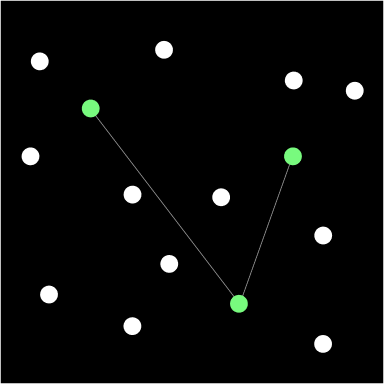
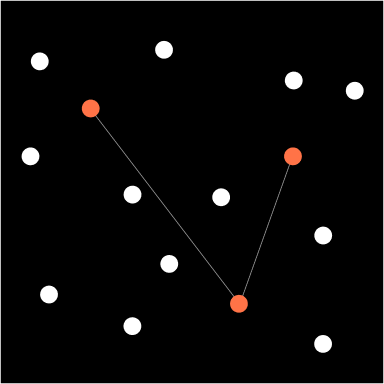
feat: new colors

Changed region(s): [[0.7188, 0.375, 0.7812, 0.4375], [0.5938, 0.75, 0.6562, 0.8125], [0.2188, 0.25, 0.2812, 0.3125]]

diff --git a/web/src/app/page.tsx b/web/src/app/page.tsx
@@ -1,7 +1,3 @@
-import SmallTitle from '@/components/base/SmallTitle';
-import ChainTitle from '@/components/base/ChainTitle';
-import GamePitchCard from '@/components/landing/GamePitchCard';
-import StepCard from '@/components/landing/StepCard';
 import door from "@/images/door.png";
 import Image from 'next/image';
 import Link from 'next/link';
@@ -13,7 +9,7 @@ export default function Home() {
 
   return (
     <main className='items-center py-12 md:py-24 font-outfit'>
-      <section className='pt-12 min-w-full '>
+      <section className='min-w-full pt-12 '>
         <Image
           className='mx-auto'
           src={door}
@@ -21,10 +17,10 @@ export default function Home() {
           width={300}
           height={300}
         />
-        <div className='mx-auto text-center  text-3xl text-white'>
+        <div className='mx-auto text-3xl text-center text-white'>
           Build community by gaming <br /> and hanging out
         </div>
-        <div className='mx-auto text-center text-xl text-lightgrey pt-4'>
+        <div className='pt-4 mx-auto text-xl text-center text-lightgrey'>
           Made for web3 communities <br />
           looking to launch gaming infrastructure
         </div>
@@ -32,14 +28,14 @@ export default function Home() {
           <Link
             href='/demo'>
             <button
-              className='bg-tavernGreen text-black rounded-lg px-4 py-2 mt-8 mx-auto'
+              className='px-4 py-2 mx-auto mt-8 text-black bg-white rounded-lg'
             >
               Try Demo
             </button>
           </Link>
         </div>
       </section>
-      <section className='grid grid-cols-1 md:grid-cols-2 pt-24 md:pt-48 md:gap-y-48 gap-24 text-center md:text-left md:px-12'>
+      <section className='grid grid-cols-1 gap-24 pt-24 text-center md:grid-cols-2 md:pt-48 md:gap-y-48 md:text-left md:px-12'>
         <div className='mx-auto' >
           <Image
             src={PVE}
@@ -52,7 +48,7 @@ export default function Home() {
           <div className='text-3xl '>
             Super easy to get started. <br /> Seriously, no code.
           </div>
-          <div className='text-lightgrey text-xl'>
+          <div className='text-xl text-lightgrey'>
             All it takes is submitting transactions. <br />  Choose your gameplay, customize it, and launch it.
           </div>
         </div>
@@ -60,7 +56,7 @@ export default function Home() {
           <div className='text-3xl '>
             We believe in the power of play. <br />
           </div>
-          <div className='text-lightgrey text-xl'>
+          <div className='text-xl text-lightgrey'>
             Communities are stronger when they play together.
           </div>
         </div>
@@ -72,7 +68,7 @@ export default function Home() {
             height={300}
           />
         </div>
-        <div className='text-center mx-auto' >
+        <div className='mx-auto text-center' >
           <Image
             src={PLAY}
             alt="explore"
@@ -84,19 +80,19 @@ export default function Home() {
           <div className='text-3xl'>
             Completely onchain <br />
           </div>
-          <div className='text-lightgrey text-xl'>
+          <div className='text-xl text-lightgrey'>
             Data, gameplay, and rules are all stored onchain. <br />
             This means your game is transparent, secure, and unstoppable. <br />
             And it means you don&apos;t have to worry about a server.
           </div>
         </div>
       </section>
-      <section className='pt-12 md:pt-48 min-w-full '>
+      <section className='min-w-full pt-12 md:pt-48 '>
 
-        <div className='mx-auto text-center  text-3xl text-white'>
+        <div className='mx-auto text-3xl text-center text-white'>
           Want a custom solution?
         </div>
-        <div className='mx-auto text-center text-xl text-lightgrey pt-4'>
+        <div className='pt-4 mx-auto text-xl text-center text-lightgrey'>
           We help developers and NFT collections build custom games  <br />
           that are white labeled with our protocol
         </div>
@@ -104,7 +100,7 @@ export default function Home() {
           <Link
             href='/intro'>
             <button
-              className='bg-tavernGreen text-black rounded-lg px-4 py-2 mt-8 mx-auto'
+              className='px-4 py-2 mx-auto mt-8 text-black rounded-lg bg-tavernOrange'
             >
               Contact Us
             </button>

diff --git a/web/src/components/component/ModuleFunctionCard.tsx b/web/src/components/component/ModuleFunctionCard.tsx
@@ -28,7 +28,7 @@ export default function ModuleFunctionCard(props: ModuleCardProps) {
       <div className='py-2 pl-4 text-2xl border-b-0 border-white'>
         {data ? censor(data.name) : "loading"}
       </div>
-      <div className='grid md:grid-cols-2 grid-cols-1 py-8 gap-8'>
+      <div className='grid grid-cols-1 gap-8 py-8 md:grid-cols-2'>
         {Array.from({ length: data?.configFunctions.length as number }).map((object, i) => {
           return (
             <ConfigFunctionCard
@@ -142,9 +142,9 @@ function ConfigFunctionCard(props: ConfigFunctionCardProps) {
               defaultValue={props.funct.requires[i] === "gameAddress" ? props.gameAddress : ""} />
           </div>
         })}
-        <div className='flex p-4 inset-x-1 mt-4 absolute bottom-0'>
+        <div className='absolute bottom-0 flex p-4 mt-4 inset-x-1'>
           <button
-            className='flex-grow py-2 mx-auto text-black rounded-md basis-0 bg-tavernGreen'
+            className='flex-grow py-2 mx-auto text-black rounded-md basis-0 bg-tavernOrange'
 
             // disabled={createGameisPending}
             type="submit">
@@ -310,9 +310,9 @@ function ConfigViewCard(props: ConfigFunctionCardProps) {
             {JSON.stringify(response, bigIntReplacer)}
           </div>
         </div>
-        <div className='flex p-4 inset-x-1 mt-4 absolute bottom-0'>
+        <div className='absolute bottom-0 flex p-4 mt-4 inset-x-1'>
           <button
-            className='flex-grow py-2 mx-auto text-black rounded-md basis-0 bg-tavernGreen '
+            className='flex-grow py-2 mx-auto text-black rounded-md basis-0 bg-tavernOrange '
             type="submit">
             Execute
             {/* {createGameisPending ? 'Confirming...' : `Deploy game on ${deploy.chain}`} */}

diff --git a/web/src/components/create/flows/CreateFlow.tsx b/web/src/components/create/flows/CreateFlow.tsx
@@ -86,7 +86,7 @@ export default function CreateFlow(props: props) {
 
     return (
         <section className='px-8 py-20 md:px-24 lg:px-40'>
-            <div className=" border border-white border-dashed">
+            <div className="border border-white border-dashed ">
                 <div className='p-4 text-2xl'>
                     Create Flow
                 </div>
@@ -114,17 +114,17 @@ export default function CreateFlow(props: props) {
                         )}
 
                         <div
-                            className='py-6 mx-4 mt-4 border-2 border-selected text-selected rounded-md text-center relative'
+                            className='relative py-6 mx-4 mt-4 text-center border-2 rounded-md border-selected text-selected'
                             onClick={addActionRow}>
-                            <div className='text-4xl top-1/2 right-1/2 absolute -translate-y-1/2'>
+                            <div className='absolute text-4xl -translate-y-1/2 top-1/2 right-1/2'>
                                 +
                             </div>
                         </div>
                     </div>
 
-                    <div className='flex p-4 inset-x-1 mt-4'>
+                    <div className='flex p-4 mt-4 inset-x-1'>
                         <button
-                            className='flex-grow py-2 mx-auto text-black rounded-md basis-0 bg-tavernGreen'
+                            className='flex-grow py-2 mx-auto text-black rounded-md basis-0 bg-tavernOrange'
                             disabled={isLoading}
                             type="submit">
                             {isLoading ? 'Confirming...' : `Create`}

diff --git a/web/src/components/create/ChooseModule.tsx b/web/src/components/create/ChooseModule.tsx
@@ -18,7 +18,7 @@ export default function ChooseModule(props: ModuleCardProps) {
   const { data } = useMetadata<ComponentMetadata>(props.metadata);
 
   // const cardClass = props.selected.includes(props.address) ? ' border-selected' : ' border-unselected';
-  const cardClass = props.active?.includes(props.address) ? ' border-tavernGreen' :
+  const cardClass = props.active?.includes(props.address) ? ' border-tavernOrange' :
     props.selected.includes(props.address) ? ' border-selected' : ' border-unselected';
 
   // const textClass = props.selected.includes(props.address) ? ' text-selected' : ' text-unselected';
@@ -40,7 +40,7 @@ export default function ChooseModule(props: ModuleCardProps) {
       <div className='py-2 pl-4 text-2xl border-white'>
         {data ? censor(data.name) : "loading"}
       </div>
-      <div className='pt-2 pb-2 pl-2 text-sm m-2'>
+      <div className='pt-2 pb-2 pl-2 m-2 text-sm'>
         {censor(data?.description)}
       </div>
     </div>

diff --git a/web/src/components/Footer.tsx b/web/src/components/Footer.tsx
@@ -21,15 +21,15 @@ export default function Footer() {
   };
 
   return (
-    <header className='py-48 w-full mt-8 font-signika'>
+    <header className='w-full py-48 mt-8 font-signika'>
       <div className='flex px-6 lg:px-16 min-h-[18] items-center flex-shrink-0 flex-col justify-center'>
         <div className='flex items-center self-stretch justify-between'>
           <div className='flex items-start'>
             <Link href='/'>
-              <div className='text-8xl text-tavernGreen font-outfit'>
+              <div className='text-white text-8xl font-outfit'>
                 Tavern
               </div>
-              <div className='uppercase mx-5 text-subtext text-xl'>enter as strangers leave as friends</div>
+              <div className='mx-5 text-xl uppercase text-subtext'>enter as strangers leave as friends</div>
 
             </Link>
           </div>

diff --git a/web/src/components/create/CreateGameForm.tsx b/web/src/components/create/CreateGameForm.tsx
@@ -122,9 +122,9 @@ export default function CreateGameForm(props: Props) {
                     </div>
                 </div>
 
-                <div className='flex p-4 inset-x-1 mt-4'>
+                <div className='flex p-4 mt-4 inset-x-1'>
                     <button
-                        className='flex-grow py-2 mx-auto text-black rounded-md basis-0 bg-tavernGreen'
+                        className='flex-grow py-2 mx-auto text-black rounded-md basis-0 bg-tavernOrange'
                         disabled={createGameisPending}
                         type="submit">
                         {createGameisPending ? 'Confirming...' : `Launch`}

diff --git a/web/src/components/base/CreateCard.tsx b/web/src/components/base/CreateCard.tsx
@@ -10,9 +10,9 @@ export default function CreateCard(props: GameCardProps) {
     return (
 
         <Link 
-        className='py-24 border-2 border-tavernGreen text-tavernGreen rounded-md text-center relative' 
+        className='relative py-24 text-center border-2 rounded-md border-tavernOrange text-tavernOrange' 
         href={props.url} >
-                <div className='text-4xl top-1/2 right-1/2 absolute -translate-y-1/2'>
+                <div className='absolute text-4xl -translate-y-1/2 top-1/2 right-1/2'>
                     +
                 </div>
         </Link>

diff --git a/web/src/components/farcade/rps/RPSAction.tsx b/web/src/components/farcade/rps/RPSAction.tsx
@@ -136,7 +136,7 @@ export default function RPSAction(props: ActionProps) {
             </div>
             <div className='absolute bottom-0 flex p-4 inset-x-1'>
                 <button
-                    className='flex-grow py-2 mx-auto text-black rounded-md basis-0 bg-tavernGreen disabled:hidden'
+                    className='flex-grow py-2 mx-auto text-black rounded-md basis-0 bg-tavernOrange disabled:hidden'
                     onClick={() => { executeFlowTx(props.selected); }}
                     disabled={inQueue || props.selected === 0}
                 >

diff --git a/web/src/components/MobileNav.tsx b/web/src/components/MobileNav.tsx
@@ -19,7 +19,7 @@ export default function MobileNav(props: MobileNavProps) {
       ></div>
       <nav className='relative flex flex-col w-full h-full px-10 py-8 overflow-y-auto border-r bg-slate-900'>
         <Link href='/' onClick={props.onClick}>
-          <div className='text-3xl text-tavernGreen font-outfit'>
+          <div className='text-3xl text-white font-outfit'>
             Tavern
           </div>
         </Link>

diff --git a/web/src/components/Navbar.tsx b/web/src/components/Navbar.tsx
@@ -26,7 +26,7 @@ export default function Navbar() {
         <div className='flex items-center self-stretch justify-between'>
           <div className='flex items-start'>
             <Link href='/'>
-              <div className='text-3xl text-tavernGreen font-outfit'>
+              <div className='text-3xl text-white font-outfit'>
                 Tavern
               </div>
             </Link>

diff --git a/web/src/app/globals.css b/web/src/app/globals.css
@@ -79,9 +79,9 @@ body {
 
   /* border-radius: 5px 5px 0 0; */
   --tw-border-opacity: 1;
-  border-color: rgb(20 233 67 / var(--tw-border-opacity));
+  border-color: rgb(256 256 256 / var(--tw-border-opacity));
   --tw-text-opacity: 1;
-  color: rgb(20 233 67 / var(--tw-text-opacity));
+  color: rgb(256 256 256 / var(--tw-text-opacity));
 }
 
 .react-tabs__tab--disabled {

diff --git a/web/tailwind.config.ts b/web/tailwind.config.ts
@@ -26,6 +26,7 @@ const config: Config = {
      unselected: "#858080",
      selected: "#E3A9FF", 
      subtext: "#CECECE",
+     tavernOrange: '#FF7347'
 
 
       
